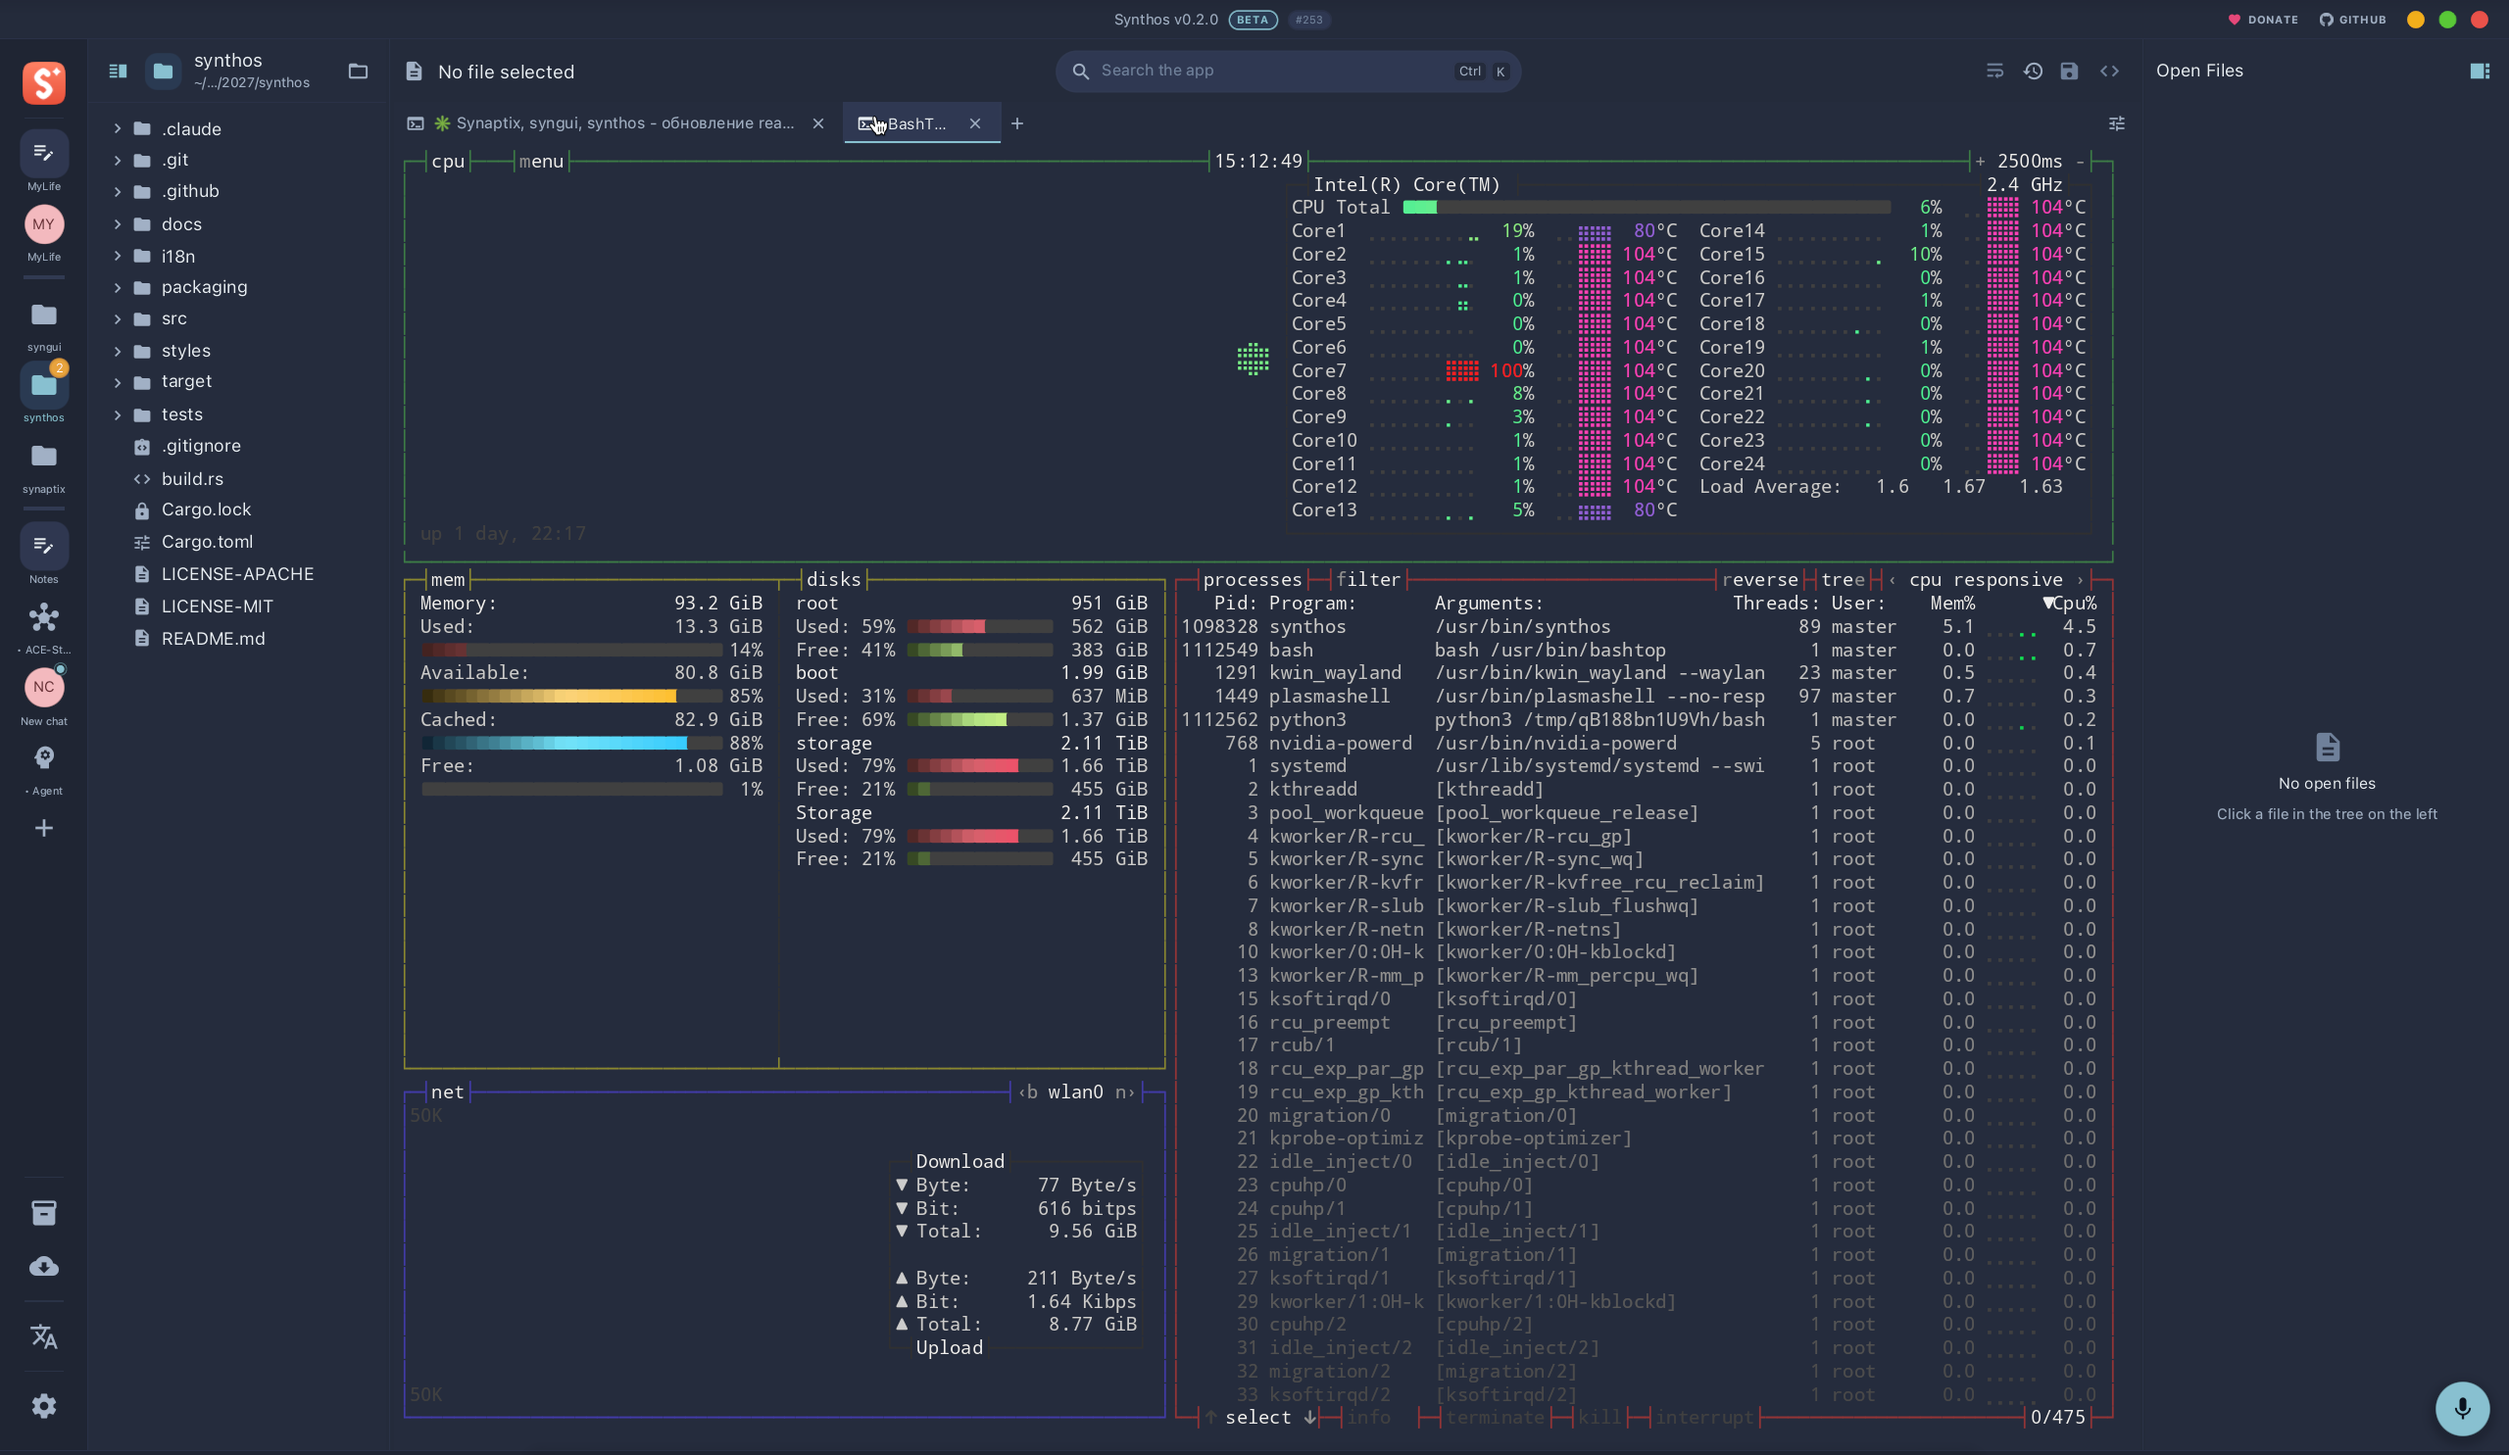
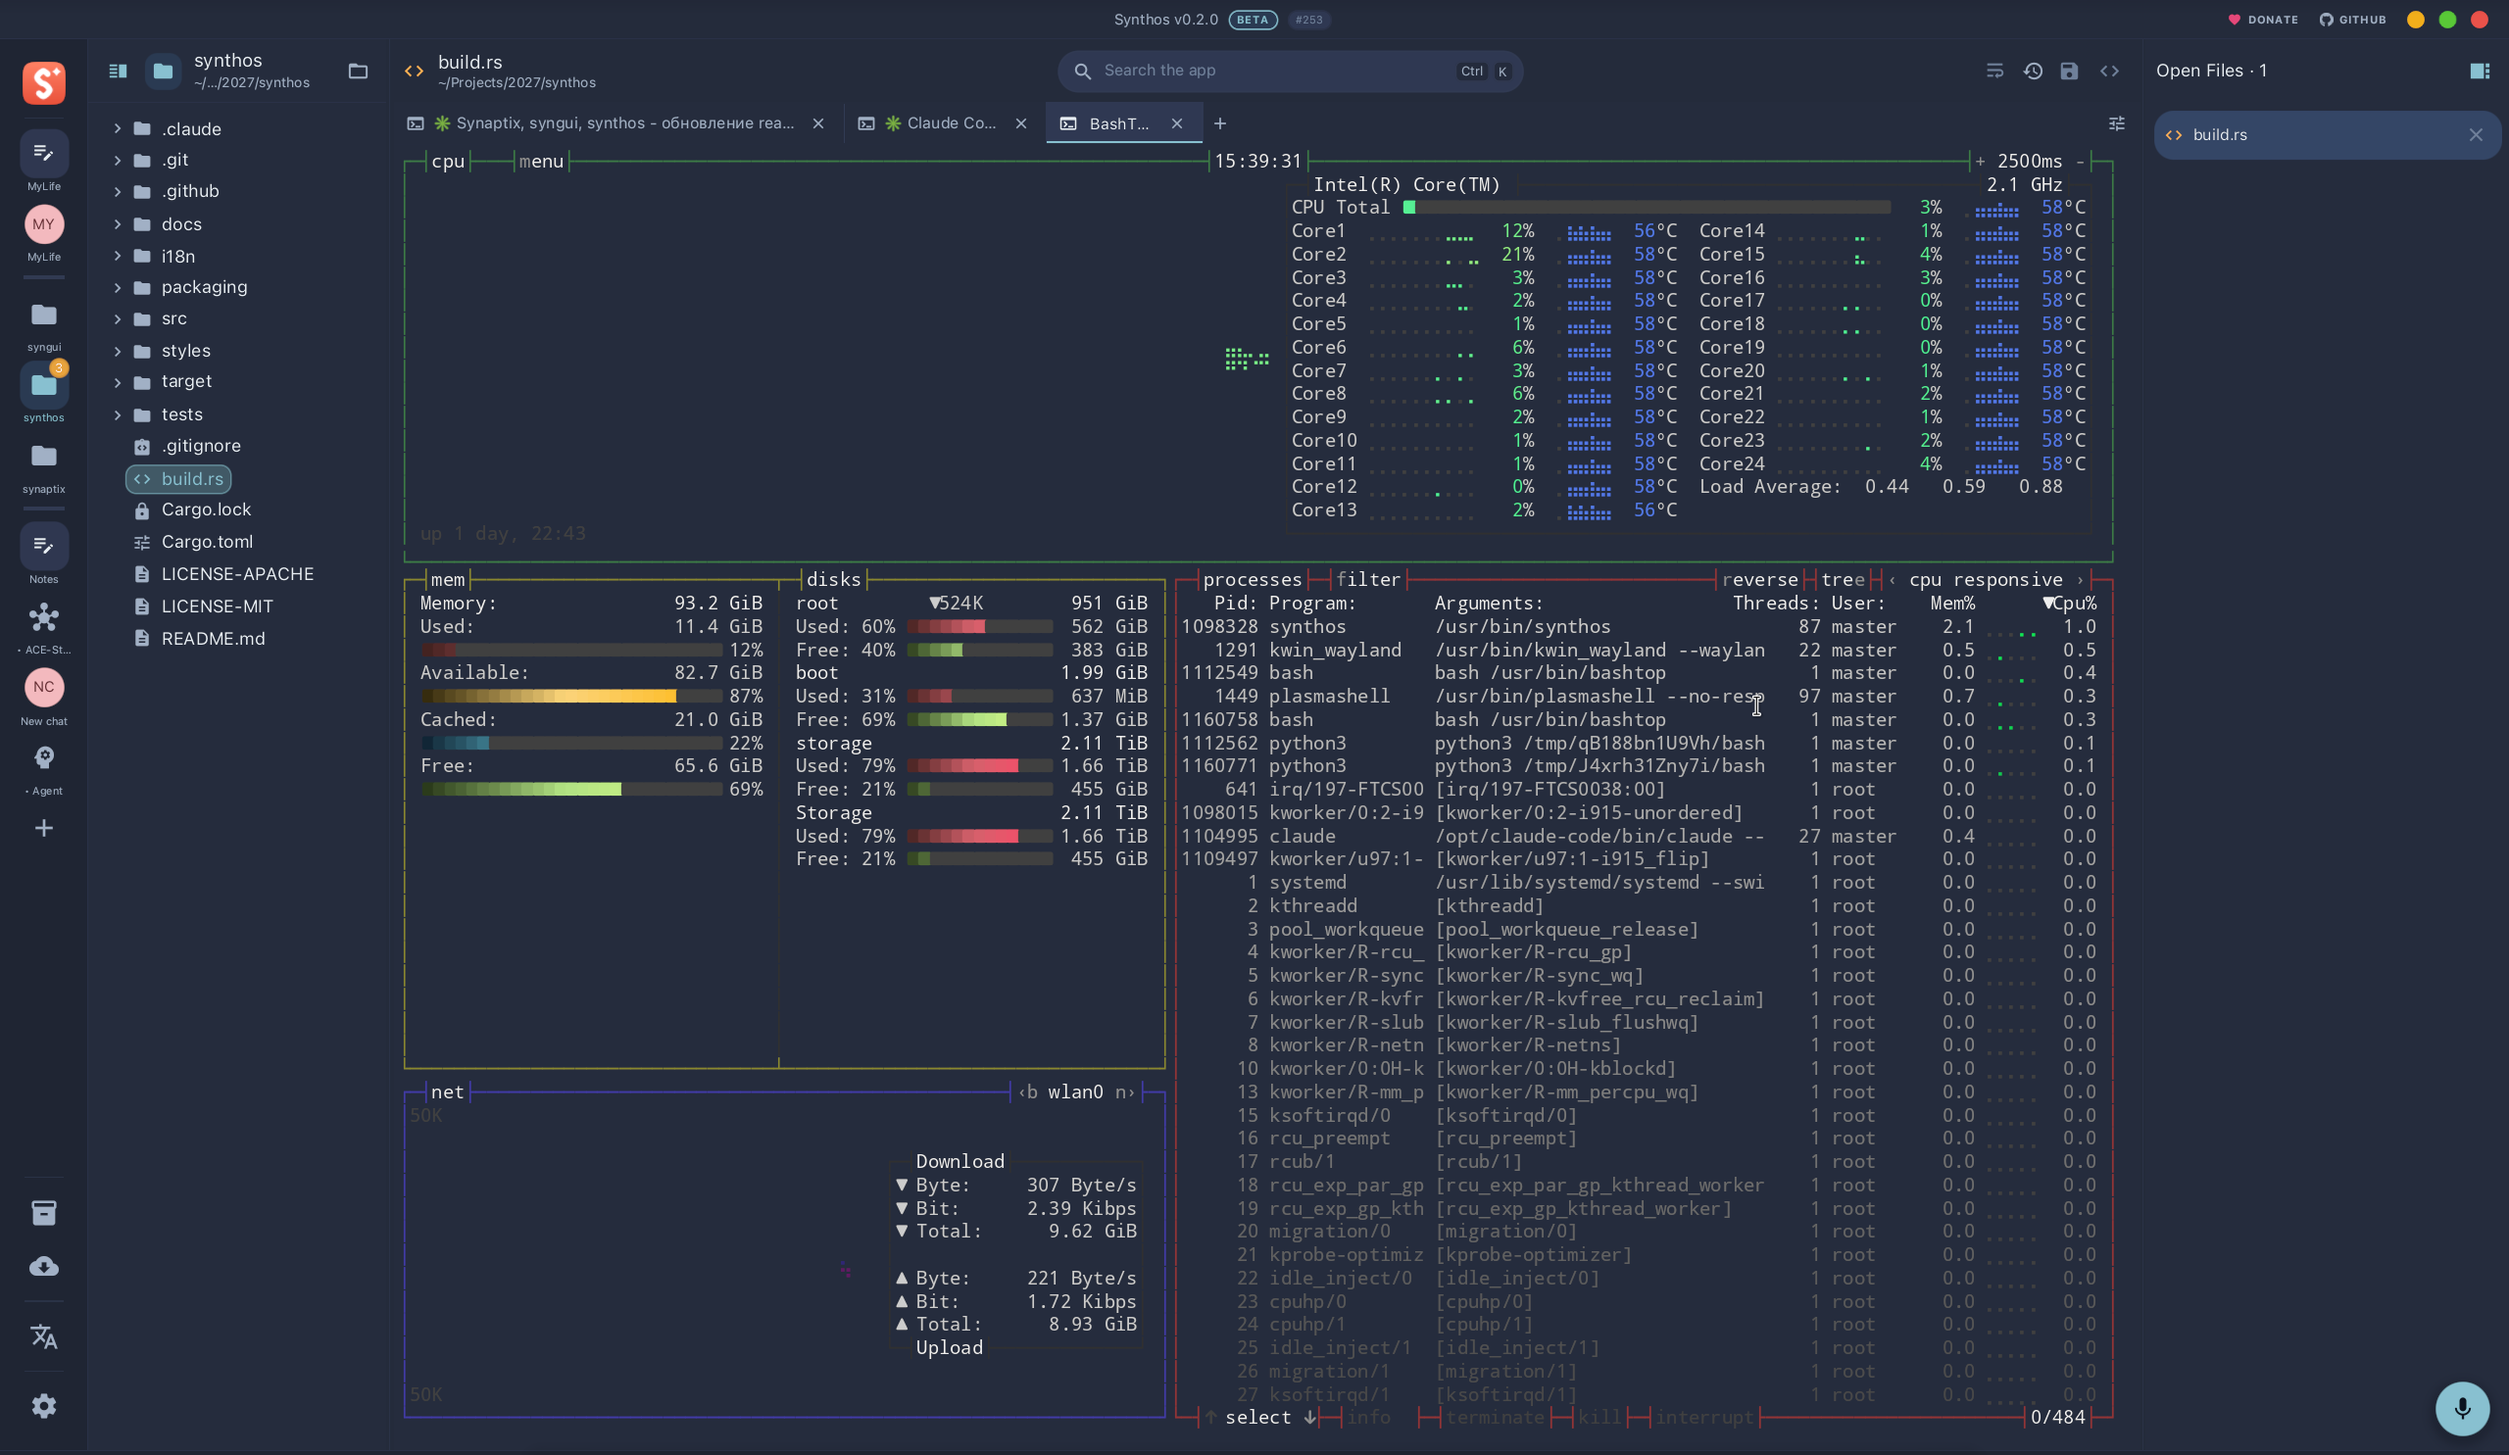
rust-version 1.96 (было 1.85 — неправда: kstring 2.0.4 требует 1.96), новый снимок btop, пин synaptix ba24f70 (патч cudarc под CUDA 13.4)

diff --git a/README.md b/README.md
@@ -260,9 +260,9 @@ three out next to each other:
 cargo build --release            # or --profile fast-release for iteration
 ```
 
-The build needs the CUDA toolkit present (`nvcc` is read at build time to pin the CUDA
-version; the driver itself is loaded dynamically at runtime) and system FFmpeg development
-libraries. An Arch package is in [`packaging/`](packaging/) — `cargo build --release` first,
+The build needs stable Rust 1.96 or newer (the floor set by dependencies), the CUDA
+toolkit (`nvcc` is read at build time to pin the CUDA API version; the driver itself is
+loaded dynamically at runtime) and system FFmpeg development libraries. An Arch package is in [`packaging/`](packaging/) — `cargo build --release` first,
 then `makepkg` against the existing binary.
 
 ## Requirements
